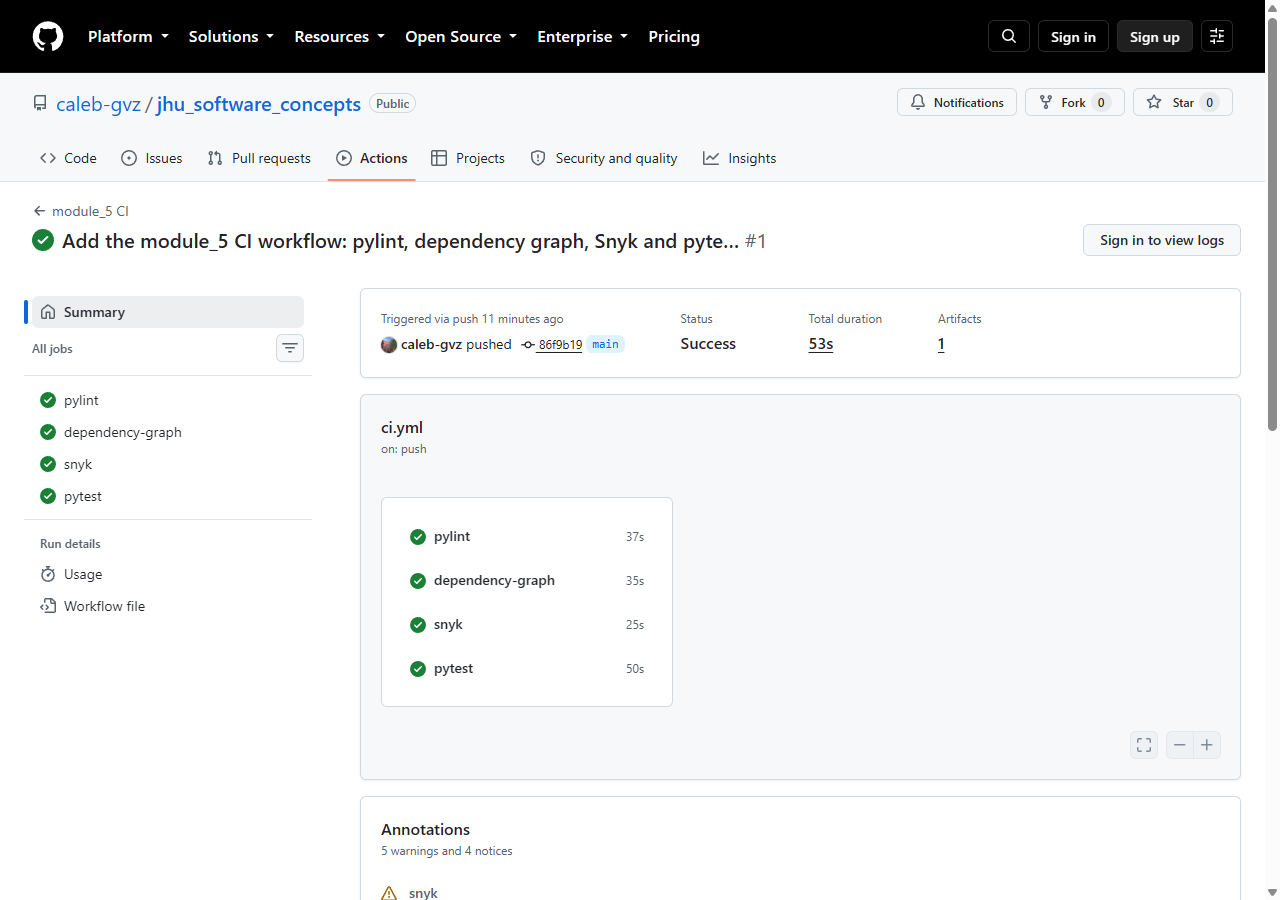
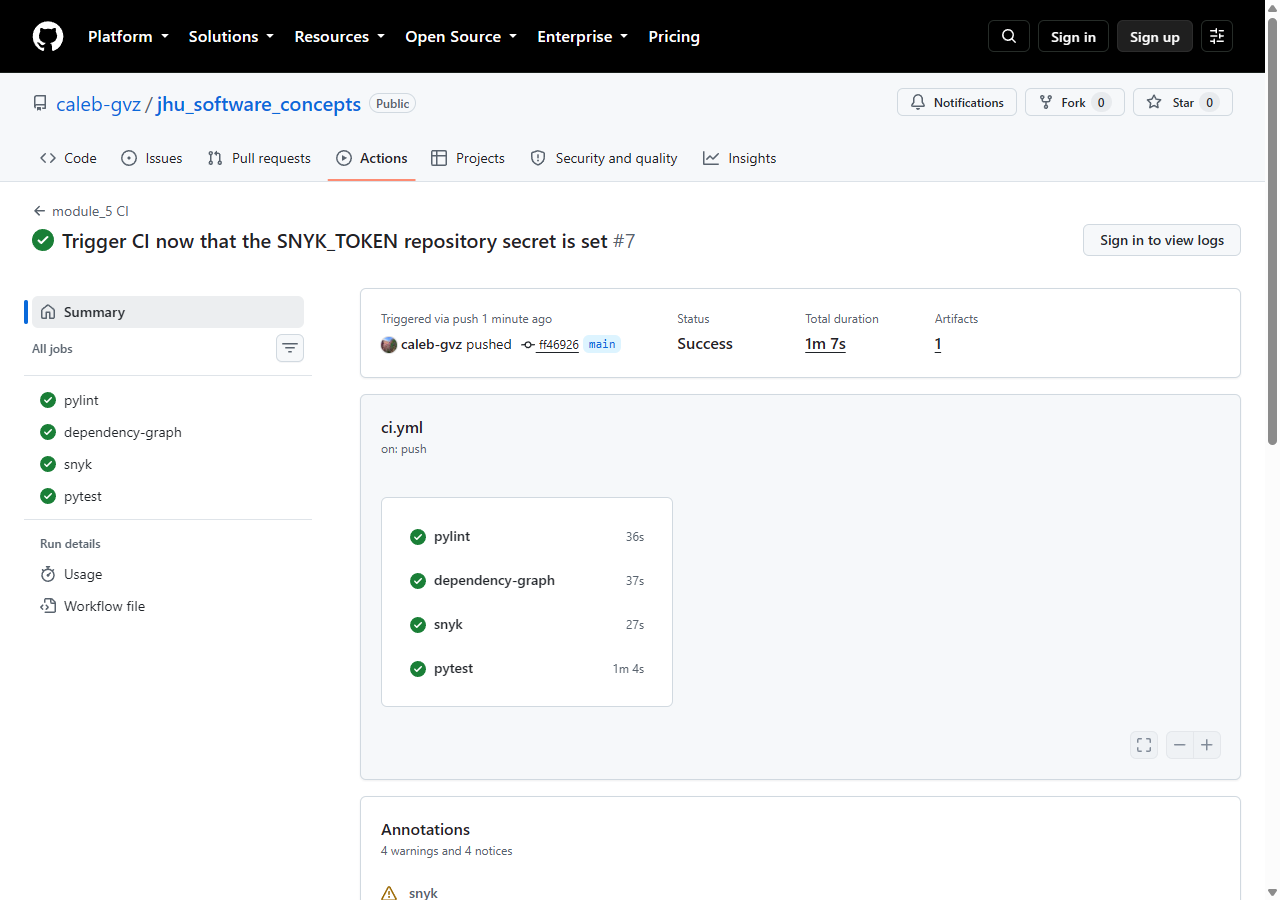
Update the CI screenshot and docs now that the Snyk job runs for real
actions_success.png is run #7, the first run with SNYK_TOKEN set: pylint, dependency-graph,
snyk (real scan) and pytest all green. README and the report are updated to match.

diff --git a/module_5/README.md b/module_5/README.md
@@ -301,8 +301,9 @@ package).
 **Findings (2026-10-01).** `snyk test` tested all 37 pinned dependencies and reported **0 issues** ("no
 vulnerable paths found"), so no package had to be patched or removed. The full output is saved in
 `snyk_test_output.txt`. `snyk-analysis.png` is a terminal-style rendering of that exact saved output, captioned
-as such in the image itself. The pins are re-checked on every push by the CI `snyk` job once the `SNYK_TOKEN`
-secret is set, which would flag any vulnerability disclosed after this date.
+as such in the image itself. The pins are re-checked on every push by the CI `snyk` job (the `SNYK_TOKEN`
+secret is set, and run #7 performed the real scan and passed), which would flag any high or critical
+vulnerability disclosed after this date.
 
 **Snyk Code (extra credit, `snyk code test src`).** The first scan found 9 issues: one **HIGH** SQL
 Injection and eight **LOW** Path Traversal notes. Evidence: `snyk_code_output.txt` and
@@ -333,14 +334,16 @@ request** as four separate jobs, so each failure is visible on its own:
 |---|---|
 | `pylint` | `pylint src --fail-under=10`: the build fails if the score is below 10. |
 | `dependency-graph` | Installs Graphviz, runs `pydeps ... -o dependency.svg`, and `test -s dependency.svg` fails the job if the file is missing or empty. The SVG is uploaded as an artifact. |
-| `snyk` | `snyk test` on the pinned dependencies, failing on high or critical issues. It needs a `SNYK_TOKEN` repository secret; without one the job passes with a visible warning that the scan was skipped. |
+| `snyk` | `snyk test` on the pinned dependencies, failing on high or critical issues. It reads the `SNYK_TOKEN` repository secret (set); without one the job would pass with a visible warning that the scan was skipped. |
 | `pytest` | Starts PostgreSQL 16, runs `src/db_setup.sql` to create the owner and least-privilege roles, then runs the full marked suite with the 100% coverage gate (`--cov-fail-under=100` in `pytest.ini`), including the live least-privilege tests. A failing test fails the build. |
 
 All four jobs install from the pinned `requirements.txt`. Module 4's workflow (`tests.yml`) keeps running
 for `module_4/`. A screenshot of a successful run is `actions_success.png`.
 
-To enable the Snyk job, add a repository secret named `SNYK_TOKEN` (GitHub: *Settings > Secrets and
-variables > Actions > New repository secret*) holding the token from your Snyk account settings.
+The Snyk job needs a repository secret named `SNYK_TOKEN` (GitHub: *Settings > Secrets and variables >
+Actions > New repository secret*) holding a Snyk Personal Access Token (Snyk account settings > Personal access
+tokens; they expire after at most 90 days, so the secret must be renewed). The screenshot above is run #7,
+the first run with the secret in place: the real scan step ran and the "skipped" notice step did not.
 
 ## Project layout
 
